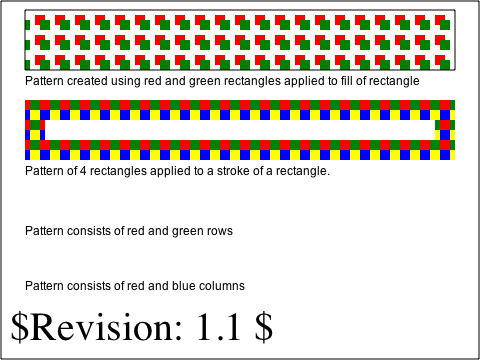
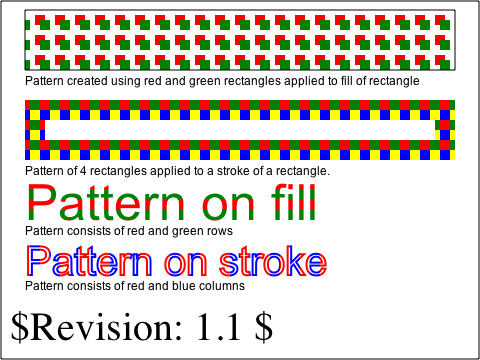
Reviewed by Oliver.
Fixes: http://bugs.webkit.org/show_bug.cgi?id=11879
Fix pattern on stroke/fill of text.

git-svn-id: https://svn.webkit.org/repository/webkit/trunk@18322 268f45cc-cd09-0410-ab3c-d52691b4dbfc

Changed region(s): [[0.0312, 0.6722, 0.6875, 0.7639], [0.0312, 0.4889, 0.5312, 0.6111], [0.5625, 0.4889, 0.6562, 0.6111]]

diff --git a/WebCore/platform/graphics/svg/cg/SVGPaintServerGradientCg.cpp b/WebCore/platform/graphics/svg/cg/SVGPaintServerGradientCg.cpp
@@ -198,6 +198,7 @@ void SVGPaintServerGradient::teardown(GraphicsContext*& context, const RenderObj
             context = m_savedContext;
             contextRef = context->platformContext();
             m_savedContext = 0;
+            m_imageBuffer = 0;
         }
 
         CGContextDrawShading(contextRef, shading);
@@ -253,13 +254,15 @@ bool SVGPaintServerGradient::setup(GraphicsContext*& context, const RenderObject
 
     if ((type & ApplyToFillTargetType) && style->svgStyle()->hasFill()) {
         context->save();      
+
         if (isPaintingText())
             context->setTextDrawingMode(cTextClip);
     }
 
     if ((type & ApplyToStrokeTargetType) && style->svgStyle()->hasStroke()) {
         context->save();
-        applyStrokeStyleToContext(contextRef, style, object); // FIXME: this seems like the wrong place for this.
+        applyStrokeStyleToContext(contextRef, style, object);
+
         if (isPaintingText()) {
             IntRect maskRect = const_cast<RenderObject*>(object)->absoluteBoundingBoxRect();
             maskRect = object->absoluteTransform().inverse().mapRect(maskRect);

diff --git a/WebCore/platform/graphics/svg/cg/SVGPaintServerPatternCg.cpp b/WebCore/platform/graphics/svg/cg/SVGPaintServerPatternCg.cpp
@@ -80,20 +80,18 @@ bool SVGPaintServerPattern::setup(GraphicsContext*& context, const RenderObject*
     if ((type & ApplyToFillTargetType) && style->svgStyle()->hasFill()) {
         CGContextSetFillColorSpace(contextRef, m_patternSpace);
         CGContextSetFillPattern(contextRef, m_pattern, &alpha);
-        if (isPaintingText()) {
-            const_cast<RenderObject*>(object)->style()->setColor(Color());
+ 
+        if (isPaintingText()) 
             context->setTextDrawingMode(cTextFill);
-        }
     }
 
     if ((type & ApplyToStrokeTargetType) && style->svgStyle()->hasStroke()) {
         CGContextSetStrokeColorSpace(contextRef, m_patternSpace);
         CGContextSetStrokePattern(contextRef, m_pattern, &alpha);
         applyStrokeStyleToContext(contextRef, style, object);
-        if (isPaintingText()) {
-            const_cast<RenderObject*>(object)->style()->setColor(Color());
+
+        if (isPaintingText()) 
             context->setTextDrawingMode(cTextStroke);
-        }
     }
 
     return true;

diff --git a/WebCore/ksvg2/svg/SVGPatternElement.cpp b/WebCore/ksvg2/svg/SVGPatternElement.cpp
@@ -224,7 +224,7 @@ void SVGPatternElement::notifyClientsToRepaint() const
 
 void SVGPatternElement::notifyAttributeChange() const
 {
-    if (!m_paintServer || !m_paintServer->activeClient() || m_ignoreAttributeChanges)
+    if (m_ignoreAttributeChanges || !m_paintServer || !attached() || ownerDocument()->parsing())
         return;
 
     IntSize newSize = IntSize(lroundf(width().value()), lroundf(height().value()));

diff --git a/WebCore/platform/graphics/svg/SVGPaintServerGradient.cpp b/WebCore/platform/graphics/svg/SVGPaintServerGradient.cpp
@@ -73,6 +73,7 @@ SVGPaintServerGradient::SVGPaintServerGradient()
     , m_stopsCount(0)
     , m_shadingCache(0)
     , m_savedContext(0)
+    , m_imageBuffer(0)
 #endif
 {
 }
